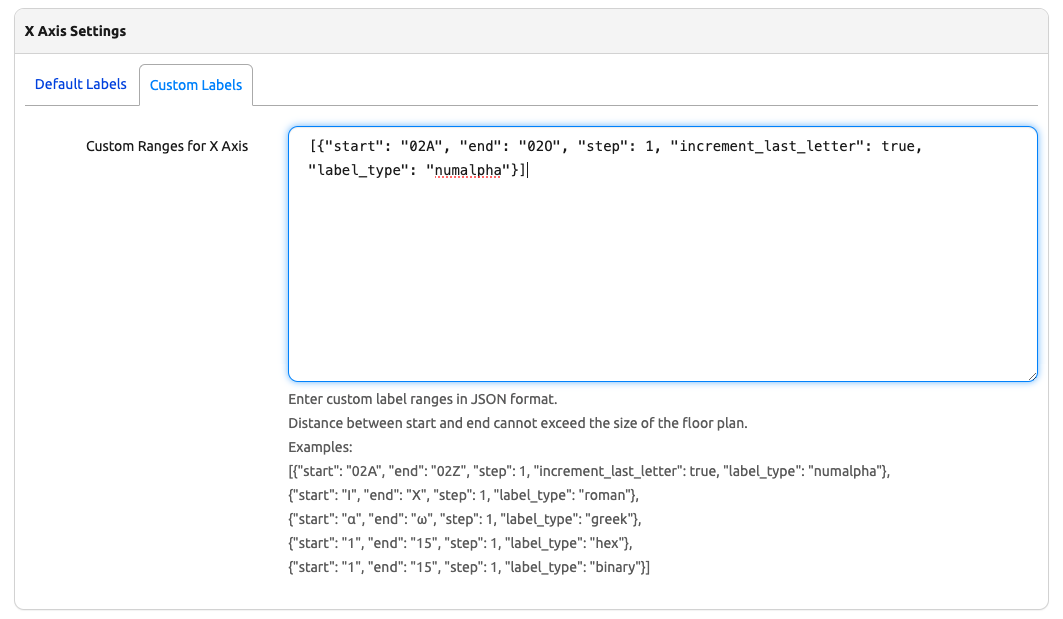
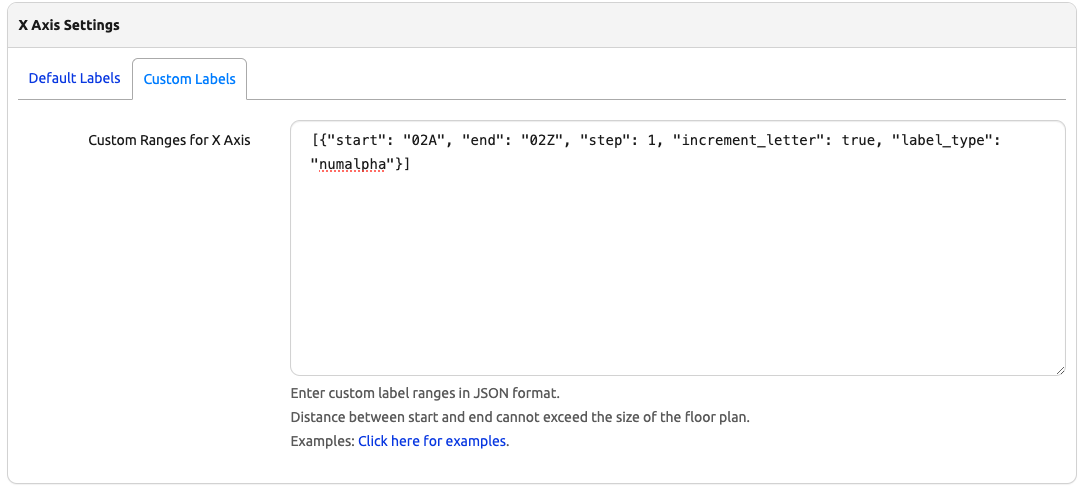
Addressing PR comments.

diff --git a/nautobot_floor_plan/templates/nautobot_floor_plan/floorplan_create.html b/nautobot_floor_plan/templates/nautobot_floor_plan/floorplan_create.html
@@ -1,5 +1,6 @@
 {% extends 'generic/object_create.html' %}
 {% load static %}
+
 {% load form_helpers %}
 {% load seed_helpers %}
 
@@ -18,21 +19,21 @@
     <div class="panel-body">
         <div class="nav-tabs-custom">
             <ul class="nav nav-tabs" role="tablist">
-                <li role="presentation" {% if not form.has_x_custom_labels %}class="active"{% endif %}>
+                <li role="presentation" {% if not form.has_x_custom_labels and not form.errors.x_custom_ranges %}class="active"{% endif %}>
                     <a href="#x-default" aria-controls="x-default" role="tab" data-toggle="tab">Default Labels</a>
                 </li>
-                <li role="presentation" {% if form.has_x_custom_labels %}class="active"{% endif %}>
+                <li role="presentation" {% if form.has_x_custom_labels or form.errors.x_custom_ranges %}class="active"{% endif %}>
                     <a href="#x-custom" aria-controls="x-custom" role="tab" data-toggle="tab">Custom Labels</a>
                 </li>
             </ul>
             
             <div class="tab-content">
-                <div role="tabpanel" class="tab-pane {% if not form.has_x_custom_labels %}active{% endif %}" id="x-default">
+                <div role="tabpanel" class="tab-pane {% if not form.has_x_custom_labels and not form.errors.x_custom_ranges %}active{% endif %}" id="x-default">
                     {% for field in form.fieldsets.1.1.tabs.0.1 %}
                         {% render_field form|get_fieldset_field:field %}
                     {% endfor %}
                 </div>
-                <div role="tabpanel" class="tab-pane {% if form.has_x_custom_labels %}active{% endif %}" id="x-custom">
+                <div role="tabpanel" class="tab-pane {% if form.has_x_custom_labels or form.errors.x_custom_ranges %}active{% endif %}" id="x-custom">
                     {% for field in form.fieldsets.1.1.tabs.1.1 %}
                         {% render_field form|get_fieldset_field:field %}
                     {% endfor %}
@@ -47,25 +48,54 @@
     <div class="panel-body">
         <div class="nav-tabs-custom">
             <ul class="nav nav-tabs" role="tablist">
-                <li role="presentation" {% if not form.has_y_custom_labels %}class="active"{% endif %}>
+                <li role="presentation" {% if not form.has_y_custom_labels and not form.errors.y_custom_ranges %}class="active"{% endif %}>
                     <a href="#y-default" aria-controls="y-default" role="tab" data-toggle="tab">Default Labels</a>
                 </li>
-                <li role="presentation" {% if form.has_y_custom_labels %}class="active"{% endif %}>
+                <li role="presentation" {% if form.has_y_custom_labels or form.errors.y_custom_ranges %}class="active"{% endif %}>
                     <a href="#y-custom" aria-controls="y-custom" role="tab" data-toggle="tab">Custom Labels</a>
                 </li>
             </ul>
             
             <div class="tab-content">
-                <div role="tabpanel" class="tab-pane {% if not form.has_y_custom_labels %}active{% endif %}" id="y-default">
+                <div role="tabpanel" class="tab-pane {% if not form.has_y_custom_labels and not form.errors.y_custom_ranges %}active{% endif %}" id="y-default">
                     {% for field in form.fieldsets.2.1.tabs.0.1 %}
                         {% render_field form|get_fieldset_field:field %}
                     {% endfor %}
                 </div>
-                <div role="tabpanel" class="tab-pane {% if form.has_y_custom_labels %}active{% endif %}" id="y-custom">
+                <div role="tabpanel" class="tab-pane {% if form.has_y_custom_labels or form.errors.y_custom_ranges %}active{% endif %}" id="y-custom">
                     {% for field in form.fieldsets.2.1.tabs.1.1 %}
                         {% render_field form|get_fieldset_field:field %}
                     {% endfor %}
                 </div>
+            </div>
+        </div>
+    </div>
+</div>
+
+<div class="modal fade" id="exampleModal" tabindex="-1" role="dialog" aria-labelledby="exampleModalLabel" aria-hidden="true">
+    <div class="modal-dialog" role="document">
+        <div class="modal-content">
+            <div class="modal-header">
+                <h5 class="modal-title" id="exampleModalLabel">Custom Label Ranges Examples</h5>
+                <button type="button" class="close" data-dismiss="modal" aria-label="Close">
+                    <span aria-hidden="true">&times;</span>
+                </button>
+            </div>
+            <div class="modal-body">
+                <p>Here are some examples of custom label ranges:</p>
+                <ul>
+                    <li>[{"start": "02A", "end": "02Z", "step": 1, "increment_letter": true, "label_type": "numalpha"}]</li><br>
+                    <li>[{"start": "A", "end": "Z", "step": 1, "increment_letter": true, "label_type": "letters"}]</li><br>
+                    <li>[{"start": "A01", "end": "A15", "step": 1, "label_type": "alphanumeric"}]</li><br>
+                    <li>[{"start": "01", "end": "05", "step": 1, "label_type": "numbers"}, {"start": "11", "end": "15", "step": 1, "label_type": "numbers"}]</li><br>
+                    <li>[{"start": "I", "end": "X", "step": 1, "label_type": "roman"}]</li><br>
+                    <li>[{"start": "α", "end": "ω", "step": 1, "label_type": "greek"}]</li><br>
+                    <li>[{"start": "1", "end": "15", "step": 1, "label_type": "hex"}]</li><br>
+                    <li>[{"start": "1", "end": "15", "step": 1, "label_type": "binary"}]</li>
+                </ul>
+            </div>
+            <div class="modal-footer">
+                <button type="button" class="btn btn-secondary" data-dismiss="modal">Close</button>
             </div>
         </div>
     </div>

diff --git a/nautobot_floor_plan/forms.py b/nautobot_floor_plan/forms.py
@@ -18,13 +18,20 @@ from nautobot.apps.forms import (
 )
 from nautobot.dcim.models import Location, Rack, RackGroup
 
-from nautobot_floor_plan import choices, models, utils
-from nautobot_floor_plan.custom_validators import RangeValidator
-from nautobot_floor_plan.label_converters import LabelToPositionConverter, PositionToLabelConverter
+from nautobot_floor_plan import choices, models
+from nautobot_floor_plan.utils import utils
+from nautobot_floor_plan.utils.custom_validators import RangeValidator
+from nautobot_floor_plan.utils.label_converters import LabelToPositionConverter, PositionToLabelConverter
 
 
 class FloorPlanForm(NautobotModelForm):
     """FloorPlan creation/edit form with support for custom axis label ranges."""
+
+    CUSTOM_RANGES_HELP_TEXT = (
+        "Enter custom label ranges in JSON format. <br>"
+        "Distance between start and end cannot exceed the size of the floor plan. <br>"
+        "Examples: <a href='#' data-toggle='modal' data-target='#exampleModal'>Click here for examples</a>."
+    )
 
     location = DynamicModelChoiceField(queryset=Location.objects.all())
 
@@ -42,19 +49,7 @@ class FloorPlanForm(NautobotModelForm):
     x_custom_ranges = forms.JSONField(
         label="Custom Ranges for X Axis",
         required=False,
-        help_text=(
-            "Enter custom label ranges in JSON format. <br>"
-            "Distance between start and end cannot exceed the size of the floor plan. <br>"
-            "Examples:<br>"
-            '[{"start": "02A", "end": "02Z", "step": 1, "increment_letter": true, "label_type": "numalpha"}, <br>'
-            '[{"start": "A", "end": "Z", "step": 1, "increment_letter": true, "label_type": "letters"}, <br>'
-            '{"start": "A01", "end": "A15", "step": 1, "label_type": "alphanumeric"}, <br>'
-            '{"start": "01", "end": "15", "step": 1, "label_type": "numbers"}, <br>'
-            '{"start": "I", "end": "X", "step": 1, "label_type": "roman"}, <br>'
-            '{"start": "α", "end": "ω", "step": 1, "label_type": "greek"},<br>'
-            '{"start": "1", "end": "15", "step": 1, "label_type": "hex"}, <br>'
-            '{"start": "1", "end": "15", "step": 1, "label_type": "binary"}]'
-        ),
+        help_text=CUSTOM_RANGES_HELP_TEXT,
     )
 
     # Y Axis Fields
@@ -71,19 +66,7 @@ class FloorPlanForm(NautobotModelForm):
     y_custom_ranges = forms.JSONField(
         label="Custom Ranges for Y Axis",
         required=False,
-        help_text=(
-            "Enter custom label ranges in JSON format. <br>"
-            "Distance between start and end cannot exceed the size of the floor plan. <br>"
-            "Examples:<br>"
-            '[{"start": "02A", "end": "02Z", "step": 1, "increment_letter": true, "label_type": "numalpha"}, <br>'
-            '[{"start": "A", "end": "Z", "step": 1, "increment_letter": true, "label_type": "letters"}, <br>'
-            '{"start": "A01", "end": "A15", "step": 1, "label_type": "alphanumeric"}, <br>'
-            '{"start": "01", "end": "15", "step": 1, "label_type": "numbers"}, <br>'
-            '{"start": "I", "end": "X", "step": 1, "label_type": "roman"}, <br>'
-            '{"start": "α", "end": "ω", "step": 1, "label_type": "greek"},<br>'
-            '{"start": "1", "end": "15", "step": 1, "label_type": "hex"}, <br>'
-            '{"start": "1", "end": "15", "step": 1, "label_type": "binary"}]'
-        ),
+        help_text=CUSTOM_RANGES_HELP_TEXT,
     )
     is_tile_movable = forms.BooleanField(
         required=False,

diff --git a/nautobot_floor_plan/migrations/0009_add_custom_label_support.py b/nautobot_floor_plan/migrations/0009_add_custom_label_support.py
@@ -3,7 +3,7 @@
 import django.db.models.deletion
 from django.db import migrations, models
 
-import nautobot_floor_plan.custom_validators
+import nautobot_floor_plan.utils.custom_validators
 
 
 class Migration(migrations.Migration):
@@ -20,7 +20,9 @@ class Migration(migrations.Migration):
         migrations.AlterField(
             model_name="floorplan",
             name="x_axis_step",
-            field=models.IntegerField(default=1, validators=[nautobot_floor_plan.custom_validators.ValidateNotZero(0)]),
+            field=models.IntegerField(
+                default=1, validators=[nautobot_floor_plan.utils.custom_validators.ValidateNotZero(0)]
+            ),
         ),
         migrations.AlterField(
             model_name="floorplan",
@@ -30,7 +32,9 @@ class Migration(migrations.Migration):
         migrations.AlterField(
             model_name="floorplan",
             name="y_axis_step",
-            field=models.IntegerField(default=1, validators=[nautobot_floor_plan.custom_validators.ValidateNotZero(0)]),
+            field=models.IntegerField(
+                default=1, validators=[nautobot_floor_plan.utils.custom_validators.ValidateNotZero(0)]
+            ),
         ),
         migrations.AddField(
             model_name="floorplan",
@@ -48,7 +52,7 @@ class Migration(migrations.Migration):
                 (
                     "step",
                     models.IntegerField(
-                        default=1, validators=[nautobot_floor_plan.custom_validators.ValidateNotZero(0)]
+                        default=1, validators=[nautobot_floor_plan.utils.custom_validators.ValidateNotZero(0)]
                     ),
                 ),
                 ("increment_letter", models.BooleanField(default=True)),

diff --git a/nautobot_floor_plan/migrations/0008_add_axis_step.py b/nautobot_floor_plan/migrations/0008_add_axis_step.py
@@ -2,7 +2,7 @@
 
 from django.db import migrations, models
 
-import nautobot_floor_plan.utils
+import nautobot_floor_plan.utils.utils
 
 
 class Migration(migrations.Migration):
@@ -14,11 +14,11 @@ class Migration(migrations.Migration):
         migrations.AddField(
             model_name="floorplan",
             name="x_axis_step",
-            field=models.IntegerField(default=1, validators=[nautobot_floor_plan.utils.validate_not_zero]),
+            field=models.IntegerField(default=1, validators=[nautobot_floor_plan.utils.utils.validate_not_zero]),
         ),
         migrations.AddField(
             model_name="floorplan",
             name="y_axis_step",
-            field=models.IntegerField(default=1, validators=[nautobot_floor_plan.utils.validate_not_zero]),
+            field=models.IntegerField(default=1, validators=[nautobot_floor_plan.utils.utils.validate_not_zero]),
         ),
     ]

diff --git a/nautobot_floor_plan/models.py b/nautobot_floor_plan/models.py
@@ -13,9 +13,9 @@ from nautobot_floor_plan.choices import (
     CustomAxisLabelsChoices,
     RackOrientationChoices,
 )
-from nautobot_floor_plan.custom_validators import ValidateNotZero
-from nautobot_floor_plan.label_generator import FloorPlanLabelGenerator
 from nautobot_floor_plan.svg import FloorPlanSVG
+from nautobot_floor_plan.utils.custom_validators import ValidateNotZero
+from nautobot_floor_plan.utils.label_generator import FloorPlanLabelGenerator
 
 logger = logging.getLogger(__name__)
 

diff --git a/nautobot_floor_plan/utils/custom_validators.py b/nautobot_floor_plan/utils/custom_validators.py
@@ -6,8 +6,9 @@ from django import forms
 from django.core.exceptions import ValidationError
 from django.core.validators import BaseValidator
 
-from nautobot_floor_plan import choices, utils
-from nautobot_floor_plan.label_converters import LabelConverterFactory
+from nautobot_floor_plan import choices
+from nautobot_floor_plan.utils import utils
+from nautobot_floor_plan.utils.label_converters import LabelConverterFactory
 
 
 class RangeValidator:

diff --git a/nautobot_floor_plan/utils/label_generator.py b/nautobot_floor_plan/utils/label_generator.py
@@ -4,8 +4,8 @@ from nautobot_floor_plan.choices import (
     AxisLabelsChoices,
     CustomAxisLabelsChoices,
 )
-from nautobot_floor_plan.label_converters import LabelConverterFactory
-from nautobot_floor_plan.utils import (
+from nautobot_floor_plan.utils.label_converters import LabelConverterFactory
+from nautobot_floor_plan.utils.utils import (
     extract_prefix_and_letter,
     extract_prefix_and_number,
     grid_letter_to_number,

diff --git a/nautobot_floor_plan/tests/test_converters.py b/nautobot_floor_plan/tests/test_converters.py
@@ -2,8 +2,9 @@
 
 from nautobot.core.testing import TestCase
 
-from nautobot_floor_plan import choices, forms, label_converters, utils
+from nautobot_floor_plan import choices, forms
 from nautobot_floor_plan.tests import fixtures
+from nautobot_floor_plan.utils import label_converters, utils
 
 
 class TestLabelConverters(TestCase):

diff --git a/nautobot_floor_plan/tests/test_label_generator.py b/nautobot_floor_plan/tests/test_label_generator.py
@@ -3,8 +3,8 @@
 from nautobot.core.testing import TestCase
 
 from nautobot_floor_plan import models
-from nautobot_floor_plan.custom_validators import RangeValidator
 from nautobot_floor_plan.tests import fixtures
+from nautobot_floor_plan.utils.custom_validators import RangeValidator
 
 
 class TestNumericLabelGenerator(TestCase):

diff --git a/nautobot_floor_plan/utils/label_converters.py b/nautobot_floor_plan/utils/label_converters.py
@@ -4,7 +4,7 @@ import logging
 import re
 
 from nautobot_floor_plan.choices import CustomAxisLabelsChoices
-from nautobot_floor_plan.utils import (
+from nautobot_floor_plan.utils.utils import (
     extract_prefix_and_letter,
     extract_prefix_and_number,
     grid_letter_to_number,

diff --git a/nautobot_floor_plan/templatetags/seed_helpers.py b/nautobot_floor_plan/templatetags/seed_helpers.py
@@ -2,7 +2,8 @@
 
 from django import template
 
-from nautobot_floor_plan import choices, label_converters, utils
+from nautobot_floor_plan import choices
+from nautobot_floor_plan.utils import label_converters, utils
 
 register = template.Library()
 

diff --git a/nautobot_floor_plan/tests/test_utils.py b/nautobot_floor_plan/tests/test_utils.py
@@ -2,7 +2,7 @@
 
 import unittest
 
-from nautobot_floor_plan import utils
+from nautobot_floor_plan.utils import utils
 
 
 class TestUtils(unittest.TestCase):
